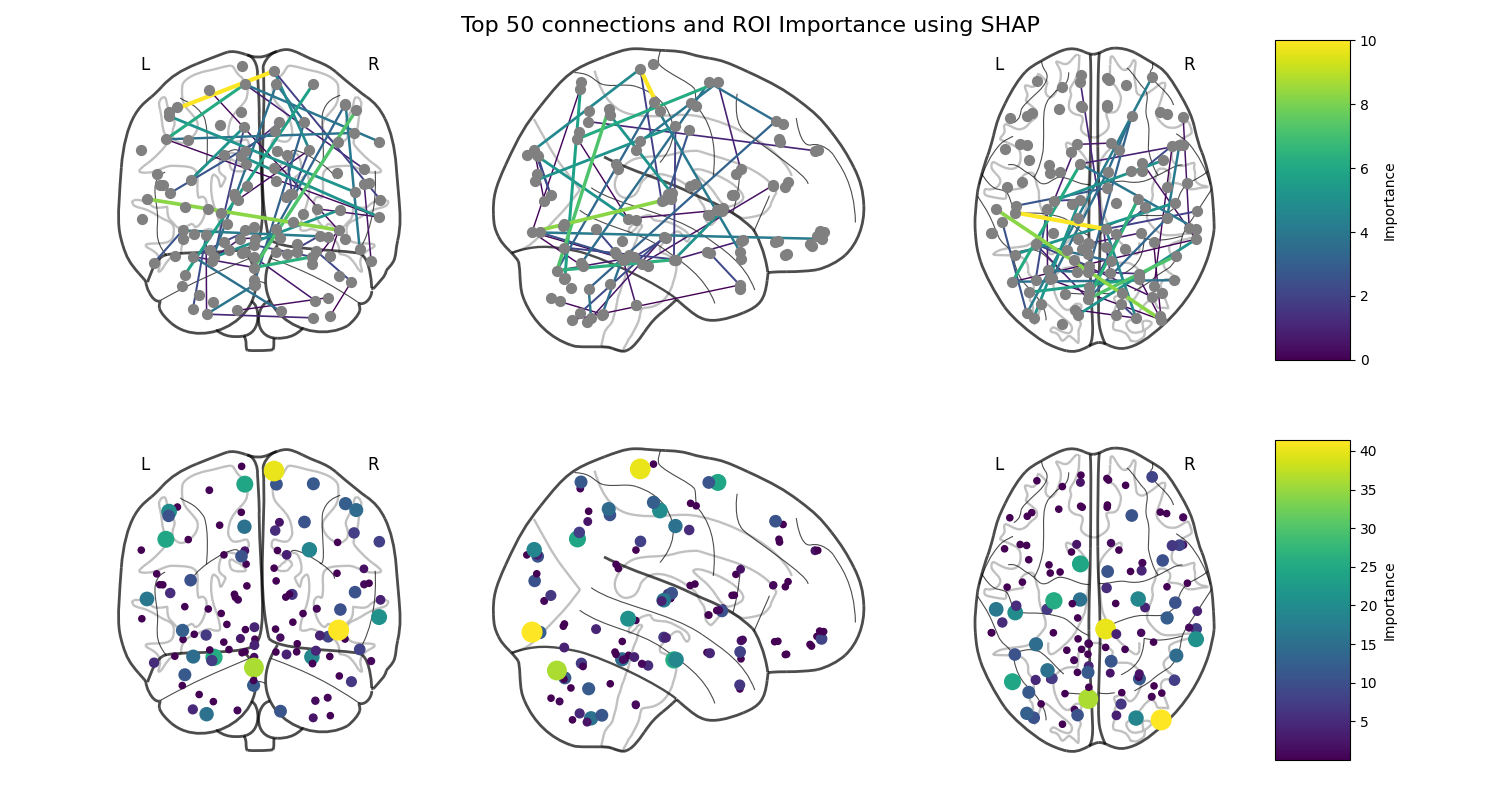
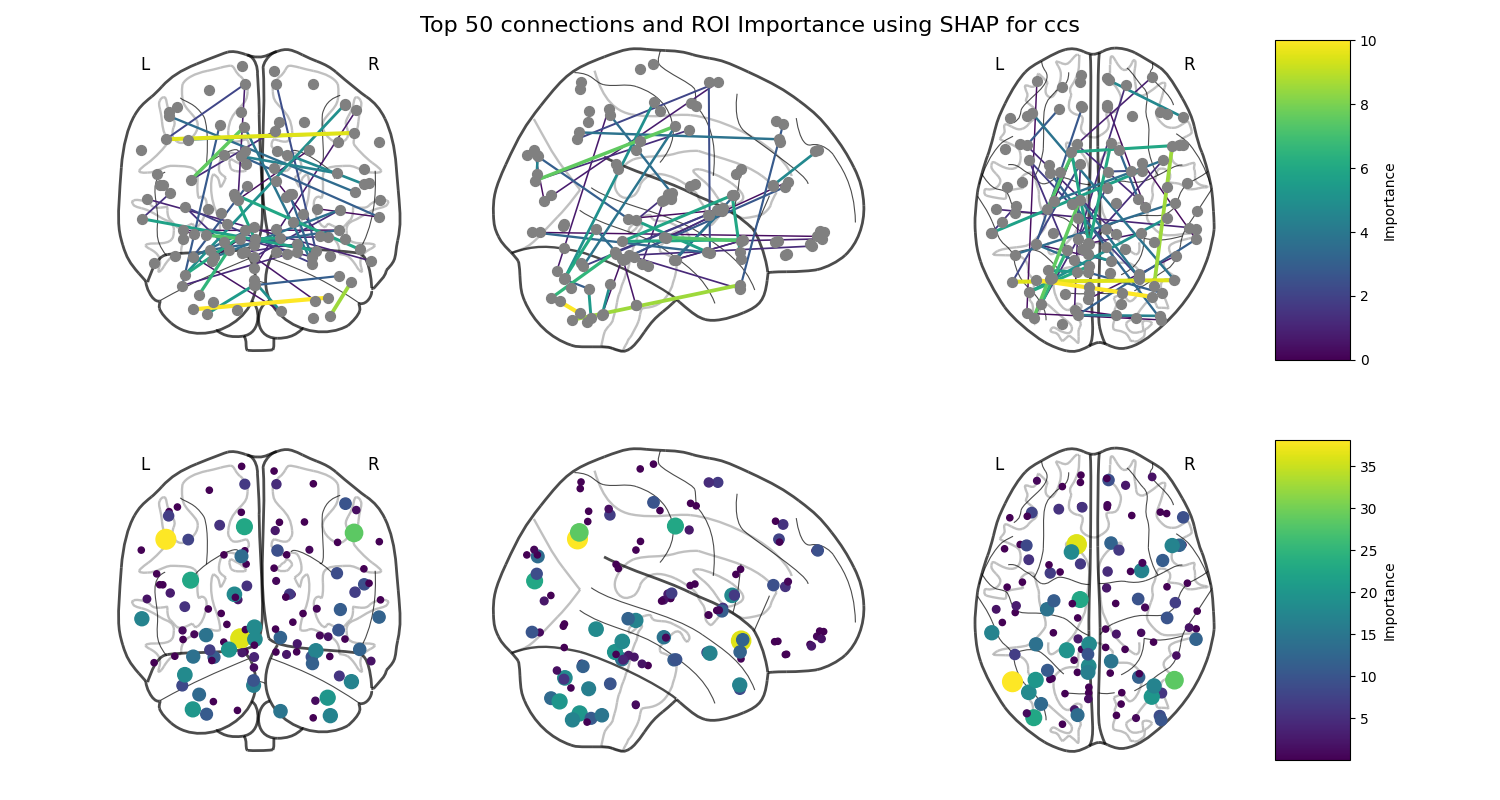
Save feature analysis plots for all four pipelines

diff --git a/app/main.py b/app/main.py
@@ -25,6 +25,7 @@ from captum.attr import IntegratedGradients, DeepLiftShap, DeepLift, GradientSha
 from nilearn import datasets, plotting
 import networkx as nx
 from lime import lime_tabular
+from functools import reduce
 
 use_cuda = torch.cuda.is_available()
 device = torch.device("cuda:0" if use_cuda else "cpu")
@@ -528,7 +529,7 @@ def print_connections(rois, weights, method, pipeline, show_now=False, save=Fals
   ax_roi_colorbar = fig.add_axes([0.85, 0.05, 0.05, 0.40])
 
   # Set the figure-wide title
-  fig.suptitle(f'Top {num_connections} connections and ROI Importance using {method}', fontsize=16)
+  fig.suptitle(f'Top {num_connections} connections and ROI Importance using {method} for {pipeline}', fontsize=16)
 
 
   G = nx.Graph()
@@ -623,7 +624,7 @@ def print_connections(rois, weights, method, pipeline, show_now=False, save=Fals
   cb.set_label('Importance')
 
   if save:
-    filename = f"{pipeline}_plot_{method}_{num_connections}_connections.png"
+    filename = f"plots/{pipeline}/{pipeline}_plot_{method}_{num_connections}_connections.png"
     plt.savefig(filename)
 
   if show_now:
@@ -635,7 +636,7 @@ def print_connections(rois, weights, method, pipeline, show_now=False, save=Fals
     ROI_functions = json.load(file)
 
   labels = np.array(atlas.labels)
-  top_connections = labels[rois[:10]]
+  top_connections = labels[rois[:100]]
   connections_with_weights = np.array([(connection[0], ROI_functions[connection[0]], connection[1], ROI_functions[connection[1]], np.round(weight, 2)) for connection, weight in zip(top_connections, weights)])
 
   # Convert the top connections to a DataFrame for nice formatting
@@ -653,7 +654,7 @@ def model_predict_lime(data):
 
   return probabilities
 
-def train_and_eval_model(top_features, labels_from_abide, verbose=False, train_model=True, save_model=False):
+def train_and_eval_model(top_features, labels_from_abide, pipeline, verbose=False, train_model=True, save_model=False):
   skf = StratifiedKFold(n_splits=5, shuffle=True, random_state=seed)  # Example with 5 folds
 
   avg_TP, avg_FP, avg_FN, avg_TN = [], [], [], []
@@ -1069,6 +1070,45 @@ def replace_features_with_0(data, feature_indices_to_remove):
 
   return data
 
+def compare_models_in_different_pipelines():
+  pipelines = ['cpac', 'dparsf', 'niak', 'ccs']
+
+  top_connections = []
+
+  for pipeline in pipelines:
+    data, labels = get_data_from_abide(pipeline)
+    labels_from_abide = np.array(labels)
+    
+    #Convert labels from 1, 2 to 0, 1 for PyTorch compatibility
+    labels_from_abide = labels_from_abide - 1
+    top_features = np.loadtxt(f'data/{pipeline}/sorted_top_features_{pipeline}_116_step1.csv', delimiter=',')
+    top_rois = np.loadtxt(f'data/{pipeline}/sorted_top_rois_{pipeline}_116_step1.csv', delimiter=',')
+
+    model, base_accuracy, train_dataloader, test_dataloader = train_and_eval_model(top_features, labels_from_abide, pipeline, verbose=False, train_model=False, save_model=False)
+
+    N_rois = 1000
+    N_rois_to_compare = 50
+
+    rois_ig, weights_ig, indices_ig = find_top_rois_using_integrated_gradients(N_rois, model, test_dataloader, top_rois)
+
+    top_conns = print_connections(rois_ig, weights_ig, "Integrated Gradients", pipeline)
+    
+    top_connections.append(top_conns[['ROI 1','ROI 2']])
+
+
+
+  common_pairs = reduce(lambda left, right: pd.merge(left, right, on=['ROI 1', 'ROI 2']), top_connections)
+
+  all_data = pd.concat(top_connections)
+  roi_counts = pd.concat([all_data['ROI 1'], all_data['ROI 2']]).value_counts()
+
+
+  pdb.set_trace()
+
+  return top_connections
+
+
+
 
 if __name__ == "__main__":
   parser = argparse.ArgumentParser(description='Process control flags.')
@@ -1123,7 +1163,7 @@ if __name__ == "__main__":
   top_features = np.loadtxt(f'data/{pipeline}/sorted_top_features_{pipeline}_116_step1.csv', delimiter=',')
   top_rois = np.loadtxt(f'data/{pipeline}/sorted_top_rois_{pipeline}_116_step1.csv', delimiter=',')
 
-  model, base_accuracy, train_dataloader, test_dataloader = train_and_eval_model(top_features, labels_from_abide, verbose=verbose, train_model=train_model, save_model=save_model)
+  model, base_accuracy, train_dataloader, test_dataloader = train_and_eval_model(top_features, labels_from_abide, pipeline, verbose=verbose, train_model=train_model, save_model=save_model)
 
   N_rois = 1000
   N_rois_to_display = 50
